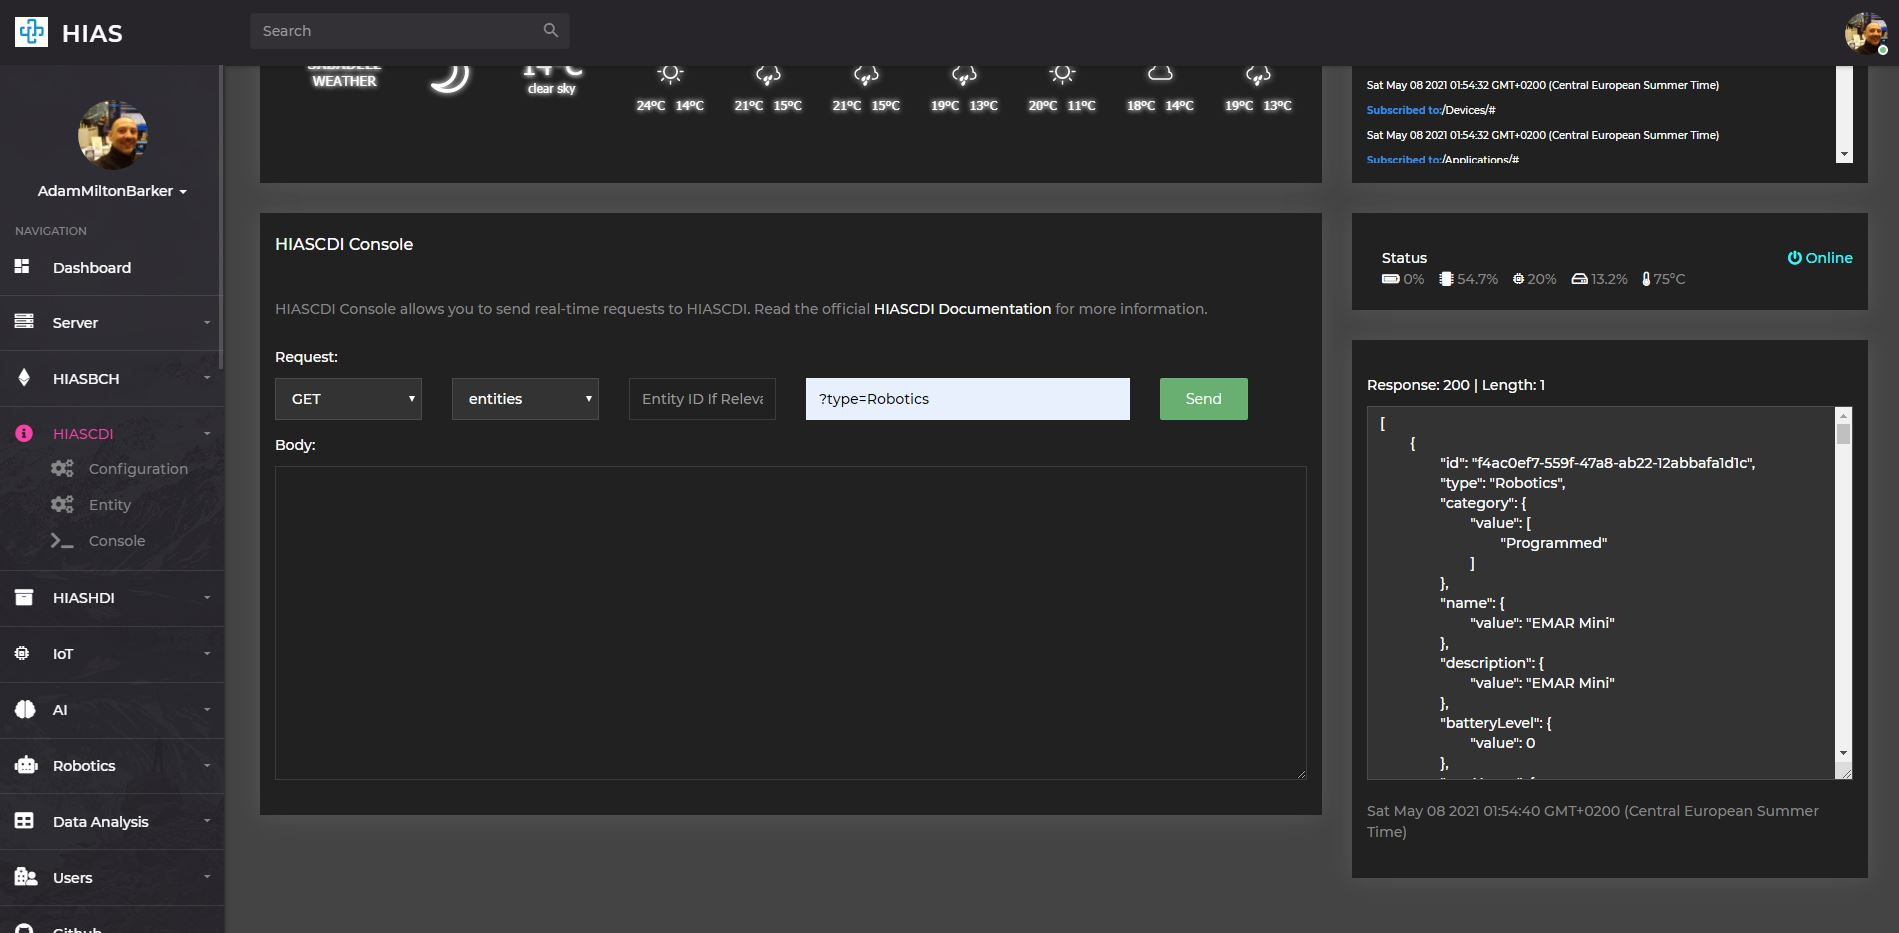
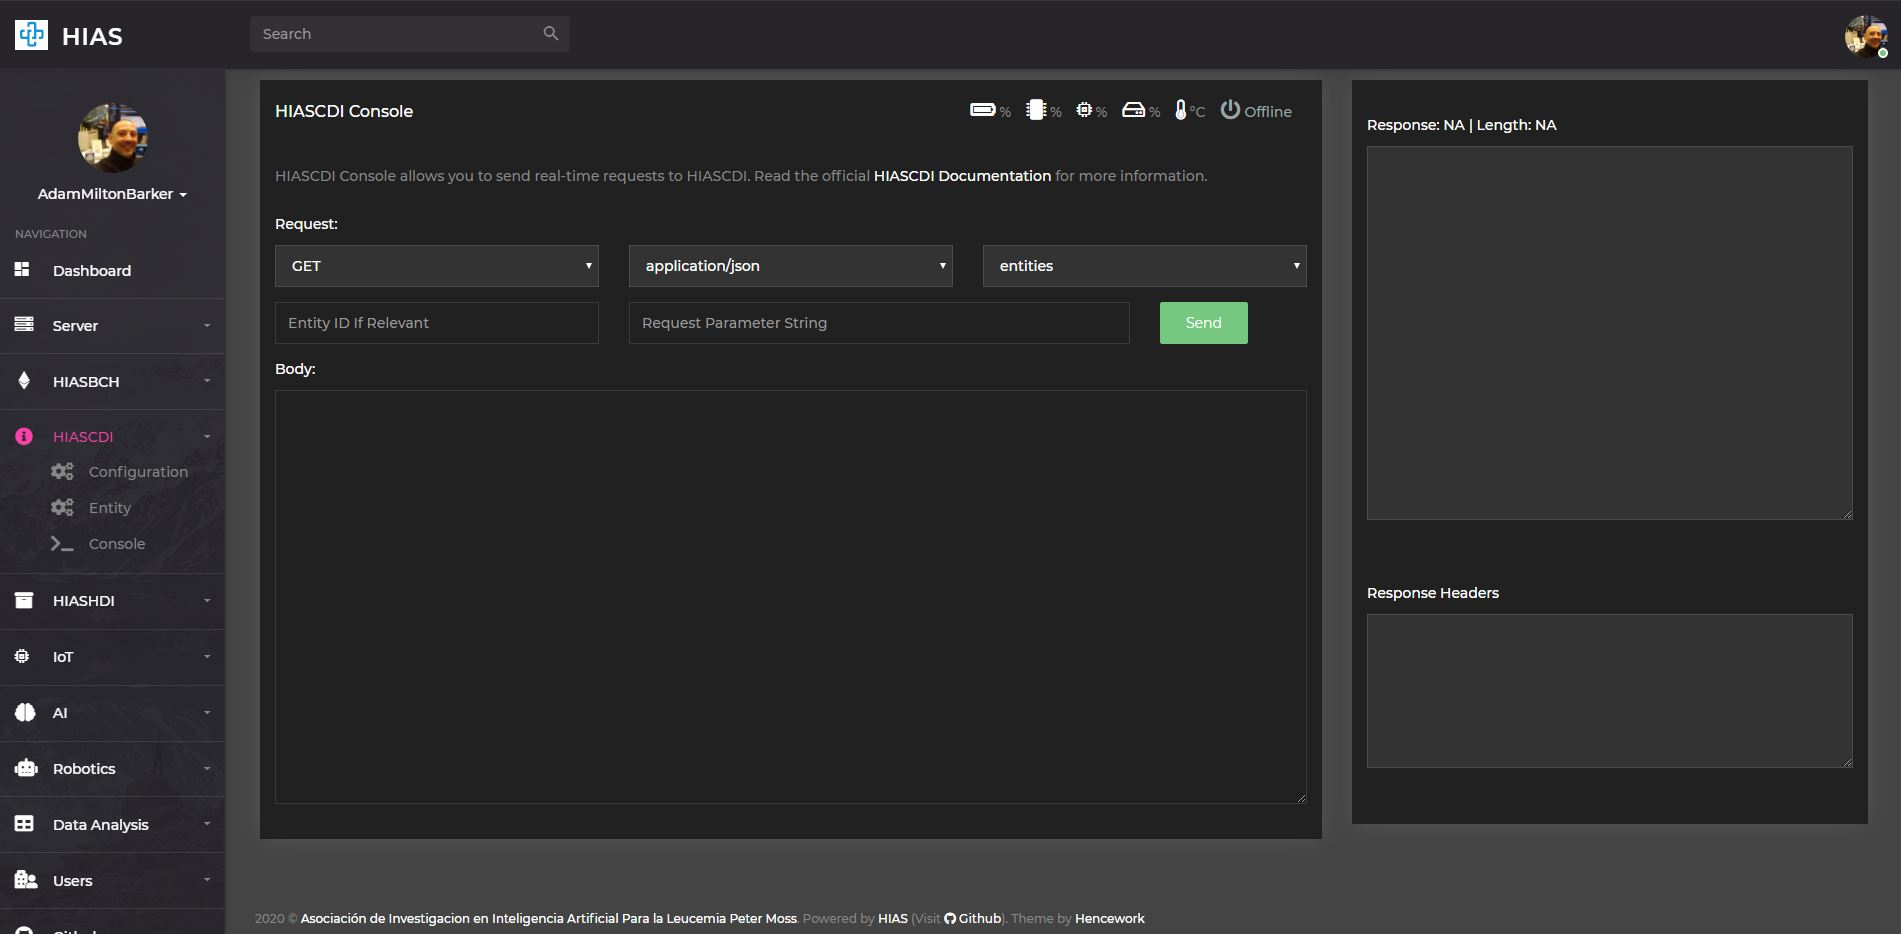
1.0.0 Accept & content-type updates

diff --git a/modules/entities.py b/modules/entities.py
@@ -577,7 +577,7 @@ class entities():
 				self.helpers.logger.info(
 					self.program + " 200: " + self.helpers.confs["successMessage"][str(200)]["Description"])
 
-				return self.respond(200, json.loads(json_util.dumps(entities)), None, headers)
+				return self.respond(200, entities, None, headers)
 		except Exception as e:
 			print(e)
 			self.helpers.logger.info(
@@ -783,7 +783,7 @@ class entities():
 			self.helpers.logger.info(
 				self.program + " 200: " + self.helpers.confs["successMessage"][str(200)]["Description"])
 
-			return self.respond(200, json.loads(json_util.dumps(data)))
+			return self.respond(200, data)
 
 	def updateEntityPost(self, _id, typeof, data, options):
 		""" Updates an HIASCDI Entity.
@@ -957,7 +957,7 @@ class entities():
 			self.helpers.logger.info("Mongo data delete FAILED")
 			return self.respond(400, self.helpers.confs["errorMessages"]["400b"])
 
-	def getEntityAttribute(self, typeof, _id, _attr, metadata):
+	def getEntityAttribute(self, typeof, _id, _attr, metadata, is_value = False):
 		""" Gets a specific HIASCDI Entity Attribute.
 
 		References:
@@ -1001,15 +1001,28 @@ class entities():
 			data = entity[0]
 
 			if _attr not in data:
-				self.helpers.logger.info(self.program + " 409: " + \
-					self.helpers.confs["errorMessages"][str(409)]["Description"])
-				return self.respond(409, self.helpers.confs["errorMessages"][str(409)])
+				self.helpers.logger.info(self.program + " 400: " + \
+					self.helpers.confs["errorMessages"][str(400)]["Description"])
+				return self.respond(400, self.helpers.confs["errorMessages"][str(400)])
+
 			data = data[_attr]
+			if is_value:
+				if "value" not in data:
+					self.helpers.logger.info(self.program + " 400: " + \
+						self.helpers.confs["errorMessages"][str(400)]["Description"])
+					return self.respond(400, self.helpers.confs["errorMessages"][str(400)])
+
+				data = data["value"]
+
+				if isinstance(data, dict):
+					newData.append(data[attr]["value"])
+				if isinstance(data[attr], list):
+					data = {"value": data["value"]}
 
 			self.helpers.logger.info(
 				self.program + " 200: " + self.helpers.confs["successMessage"][str(200)]["Description"])
 
-			return self.respond(200, json.loads(json_util.dumps(data)))
+			return self.respond(200, data)
 
 	def updateEntityAttrPut(self, _id, _attr, typeof, data):
 		""" Updates an HIASCDI Entity Attribute.
@@ -1085,11 +1098,21 @@ class entities():
 											{'$unset': {_attr: ""}})
 			return self.respond(204, self.helpers.confs["successMessage"][str(204)])
 
-	def respond(self, responseCode, response, location=None, headers=[]):
+	def respond(self, responseCode, response, location=None, headers={}):
 		""" Builds the request repsonse """
 
-		response = Response(response=json.dumps(response, indent=4),
-						status=responseCode, mimetype="application/json")
+		if "application/json" in self.broker.accepted:
+			response =  Response(response=json.dumps(json.loads(json_util.dumps(response)), indent=4), status=responseCode,
+						mimetype="application/json")
+			headers['Content-Type'] = 'application/json'
+		elif "text/plain" in self.broker.accepted:
+			if isinstance(response, dict):
+				response = json.dumps(response)
+			if isinstance(response, list):
+				response = json.dumps(response)
+			response = Response(response=response, status=responseCode,
+						mimetype="text/plain")
+			headers['Content-Type'] = 'text/plain; charset=utf-8'
 
 		if len(headers):
 			response.headers = headers

diff --git a/hiascdi.py b/hiascdi.py
@@ -124,7 +124,7 @@ class HIASCDI():
 
 	def processHeaders(self, request):
 
-		if self.broker.checkAcceptsType(request.headers) is not True:
+		if self.broker.checkAcceptsType(request.headers):
 			return self.respond(406, self.confs["errorMessages"][str(406)])
 
 		if self.broker.checkContentType(request.headers) is not True:
@@ -134,11 +134,28 @@ class HIASCDI():
 
 		return self.broker.checkJSON(body)
 
-	def respond(self, responseCode, response, location=None):
+	def respond(self, responseCode, response):
 		""" Builds the request repsonse """
 
-		return Response(response=json.dumps(response, indent=4), status=responseCode,
-					mimetype="application/json")
+		headers = {}
+
+		if "application/json" in self.broker.accepted:
+			response =  Response(response=response, status=responseCode,
+							mimetype="application/json")
+			headers['Content-Type'] = 'application/json'
+		elif "text/plain" in self.broker.accepted:
+			if isinstance(response, dict):
+				response = json.dumps(response)
+			if isinstance(response, list):
+				response = json.dumps(response)
+			response = Response(response=response, status=responseCode,
+						mimetype="text/plain")
+			headers['Content-Type'] = 'text/plain; charset=utf-8'
+
+		if len(headers):
+			response.headers = headers
+
+		return response
 
 	def life(self):
 		""" Sends vital statistics to HIAS """
@@ -186,6 +203,7 @@ def entitiesPost():
 	""" Responds to POST requests sent to the /v1/entities API endpoint. """
 
 	HIASCDI.processHeaders(request)
+	print(self.broker.accepted)
 
 	query=request.json
 
@@ -430,6 +448,25 @@ def entityAttrDelete(_id,_attr):
 		typeof = request.args.get('type')
 
 	return HIASCDI.entities.deleteEntityAttribute(_id, _attr, typeof)
+
+@app.route('/entities/<_id>/attrs/<_attr>/value', methods=['GET'])
+def entityAttrsGetAttrValue(_id, _attr):
+	""" Responds to GET requests sent to the /v1/entities/<_id>/attrs/<_attr>/value API endpoint. """
+
+	HIASCDI.processHeaders(request)
+
+	if _id is None:
+		return HIASCDI.respond(400, HIASCDI.helpers.confs["errorMessages"]["400b"])
+
+	if _attr is None:
+		return HIASCDI.respond(400, HIASCDI.helpers.confs["errorMessages"]["400b"])
+
+	if request.args.get('type') is None:
+		typeof = None
+	else:
+		typeof = request.args.get('type')
+
+	return HIASCDI.entities.getEntityAttribute(typeof, _id, _attr, None, True)
 
 def main():
 	signal.signal(signal.SIGINT, HIASCDI.signal_handler)

diff --git a/modules/broker.py b/modules/broker.py
@@ -49,6 +49,8 @@ class broker():
 
 		self.mongodb = mongodb
 
+		self.accepted = []
+
 		self.headers = {
 			"content-type": self.helpers.confs["contentType"]
 		}
@@ -59,12 +61,22 @@ class broker():
 		self.helpers.logger.info("HIASCDI initialization complete.")
 
 	def checkAcceptsType(self, headers):
-		""" Checks the request Accept type. """
+		""" Checks the request Accept types. """
 
-		response = True
-		if "Accept" not in headers or headers["Accept"] not in self.helpers.confs["contentTypes"]:
-			response = False
-		return response
+		self.accepted = headers.getlist('accept')
+		self.accepted = self.accepted[0].split(",")
+
+		if "Accept" not in headers:
+			return False
+
+		for i, ctype in enumerate(self.accepted):
+			if ctype not in self.helpers.confs["contentTypes"]:
+				self.accepted.pop(i)
+
+		if len(self.accepted):
+			return True
+		else:
+			return False
 
 	def checkContentType(self, headers):
 		""" Checks the request Content-Type. """

diff --git a/documentation/usage/console.md b/documentation/usage/console.md
@@ -24,6 +24,11 @@ Choose the request method for your API call. Available methods are:
 
 To use the console first select a request method.
 
+## Content Accepts Type
+
+- application/json
+- plain/txt
+
 ### Endpoint
 Choose the endpoint for your API call. Available endpoints are:
 
@@ -32,7 +37,7 @@ Choose the endpoint for your API call. Available endpoints are:
 - Types
 - Subscriptions
 
-### ID
+### Entity ID
 If your call requires an ID and/or any other parameters you can use the Entity ID field.
 
 ### Request Parameter String
